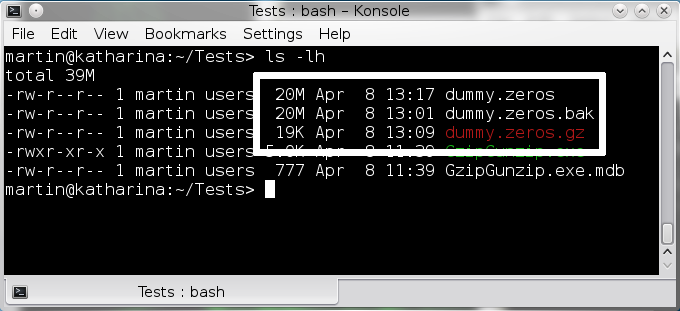
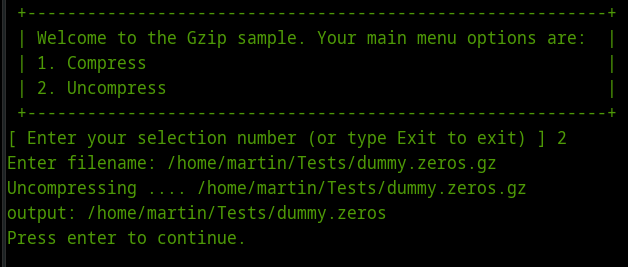
Updates images to the project

diff --git a/src/GzipStream/Program.cs b/src/GzipStream/Program.cs
@@ -11,11 +11,13 @@ do
 {
 
 		Console.Clear();
-		Console.WriteLine("Welcome to the Gzip sample. Your main menu options are:");
-		Console.WriteLine(" 1. Compress");
-		Console.WriteLine(" 2. Uncompress");
 		Console.WriteLine();
-		Console.WriteLine("Enter your selection number (or type Exit to exit the program)");
+		Console.WriteLine(" +----------------------------------------------------------+");
+		Console.WriteLine(" | Welcome to the Gzip sample. Your main menu options are:  |");
+		Console.WriteLine(" | 1. Compress                                              |");
+		Console.WriteLine(" | 2. Uncompress                                            |");
+		Console.WriteLine(" +----------------------------------------------------------+");
+		Console.Write("[ Enter your selection number (or type Exit to exit) ] ");
 		readResult = Console.ReadLine();
 		if (readResult != null)
 		{
